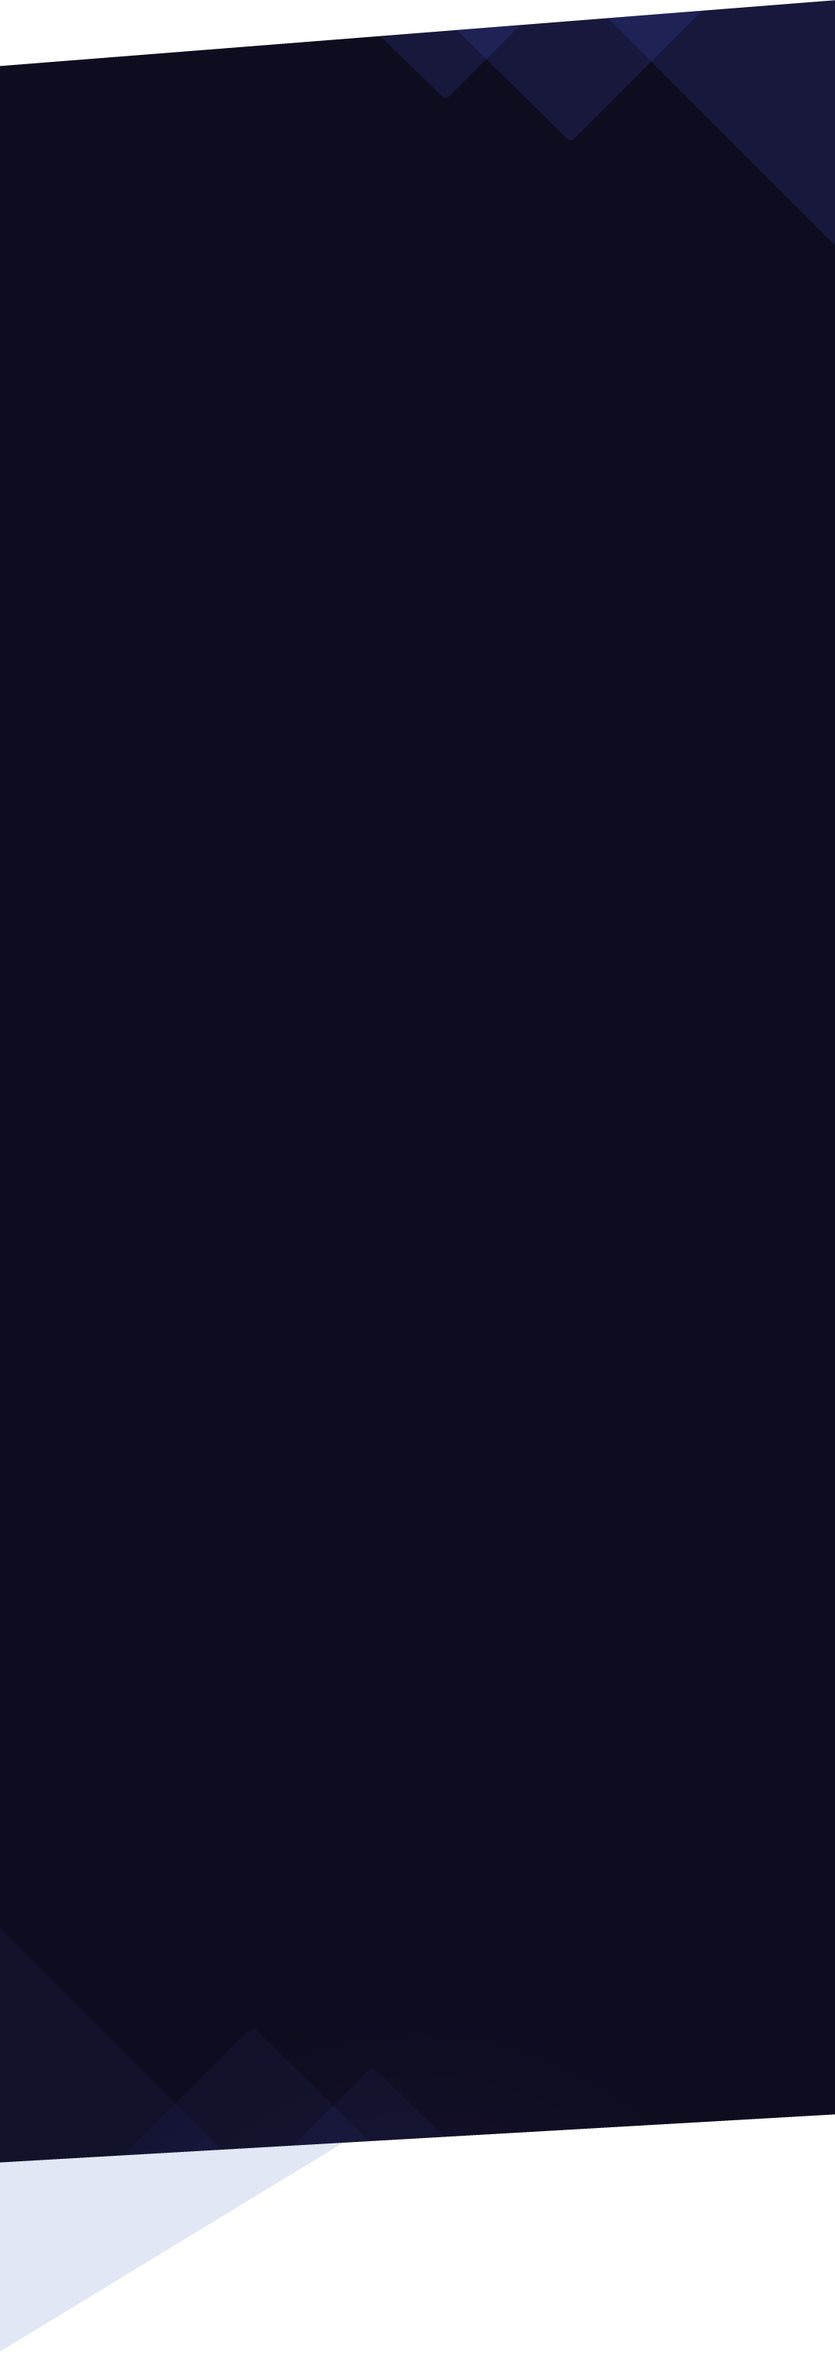
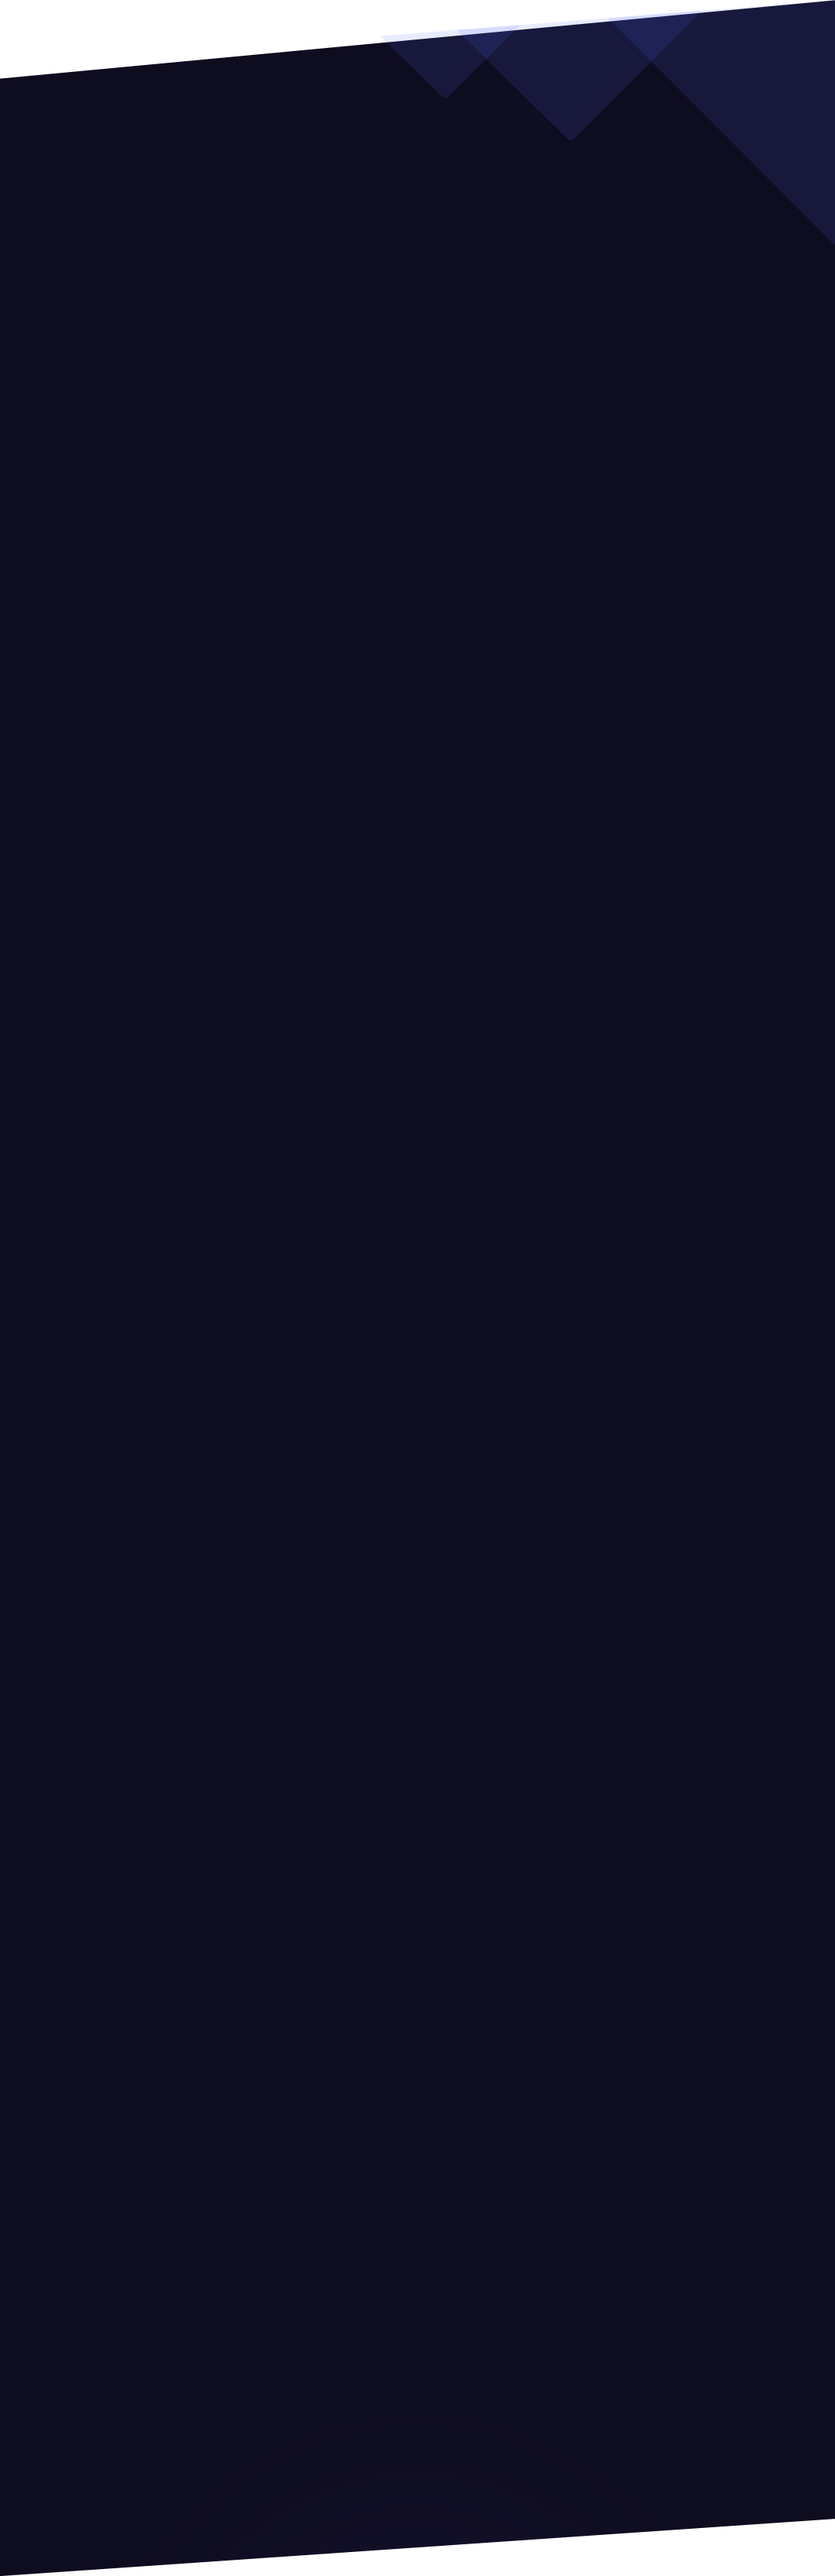
Homepage mobile design done

diff --git a/resources/assets/sass/components/_hero.scss b/resources/assets/sass/components/_hero.scss
@@ -41,24 +41,25 @@
 
   }
 
-  @media screen and (max-width: $screen-sm) {
-    &.hero-homepage {
-      background-image: url('/images/home/hero-homepage-bottom.m.png'), url('/images/home/hero-homepage.m.png');
-      background-position: bottom, center;
-      background-size: contain,cover;
-    }
-  }
-
   &.hero-curved {
     background-image: url('/images/home/hero-homepage-1.png');
     background-color: #fff;
   }
 
   @media screen and (max-width: $screen-sm) {
+    &.hero-homepage {
+      background-image: url('/images/home/hero-homepage-bottom.m.png'), url('/images/home/hero-homepage.m.png');
+      background-position: bottom, center;
+      background-size: contain,cover;
+    }
+
     &.hero-curved {
-      background-image: url('/images/home/hero-homepage-1.m.png');
+      background-image: url('/images/home/hero-homepage-1-bottom.m.png'), url('/images/home/hero-homepage-1.m.png');
+      background-position: bottom, top center;
+      background-size: contain,cover;
     }
   }
+
 
   &.hero-influencers {
     & h1 {

diff --git a/public/assets/css/main.css b/public/assets/css/main.css
@@ -24452,22 +24452,21 @@ a:hover {
   text-align: left;
 }
 
-@media screen and (max-width: 768px) {
-  .hero.hero-homepage {
-    background-image: url("/images/home/hero-homepage-bottom.m.png"), url("/images/home/hero-homepage.m.png");
-    background-position: bottom, center;
-    background-size: contain,cover;
-  }
-}
-
 .hero.hero-curved {
   background-image: url("/images/home/hero-homepage-1.png");
   background-color: #fff;
 }
 
 @media screen and (max-width: 768px) {
+  .hero.hero-homepage {
+    background-image: url("/images/home/hero-homepage-bottom.m.png"), url("/images/home/hero-homepage.m.png");
+    background-position: bottom, center;
+    background-size: contain,cover;
+  }
   .hero.hero-curved {
-    background-image: url("/images/home/hero-homepage-1.m.png");
+    background-image: url("/images/home/hero-homepage-1-bottom.m.png"), url("/images/home/hero-homepage-1.m.png");
+    background-position: bottom, top center;
+    background-size: contain,cover;
   }
 }
 

diff --git a/public/build/assets/css/main-270983df66.css b/public/build/assets/css/main-270983df66.css
@@ -24452,22 +24452,21 @@ a:hover {
   text-align: left;
 }
 
-@media screen and (max-width: 768px) {
-  .hero.hero-homepage {
-    background-image: url("/images/home/hero-homepage-bottom.m.png"), url("/images/home/hero-homepage.m.png");
-    background-position: bottom, center;
-    background-size: contain,cover;
-  }
-}
-
 .hero.hero-curved {
   background-image: url("/images/home/hero-homepage-1.png");
   background-color: #fff;
 }
 
 @media screen and (max-width: 768px) {
+  .hero.hero-homepage {
+    background-image: url("/images/home/hero-homepage-bottom.m.png"), url("/images/home/hero-homepage.m.png");
+    background-position: bottom, center;
+    background-size: contain,cover;
+  }
   .hero.hero-curved {
-    background-image: url("/images/home/hero-homepage-1.m.png");
+    background-image: url("/images/home/hero-homepage-1-bottom.m.png"), url("/images/home/hero-homepage-1.m.png");
+    background-position: bottom, top center;
+    background-size: contain,cover;
   }
 }
 

diff --git a/resources/views/home/index.blade.php b/resources/views/home/index.blade.php
@@ -45,10 +45,10 @@
         </div>
         <div class="clearfix"></div>
         <div class="hero hero-curved" style="background-color: transparent;">
-            <div class="container visible-lg-block" style="height: 300px;"></div>
-            <div class="container visible-md-block" style="height: 200px;"></div>
-            <div class="container visible-sm-block" style="height: 100px;"></div>
-            <div class="container visible-xd-block" style="height: 50px;"></div>
+            <div class="container visible-lg-block" style="height: 200px;"></div>
+            <div class="container visible-md-block" style="height: 150px;"></div>
+            <div class="container visible-sm-block" style="height: 80px;"></div>
+            <div class="container visible-xs-block" style="height: 100px;"></div>
             <div class="container">
                 <div class="row text-center offers">
                     <div class="col-sm-4" style="margin-top: 20px;margin-bottom: 50px;">
